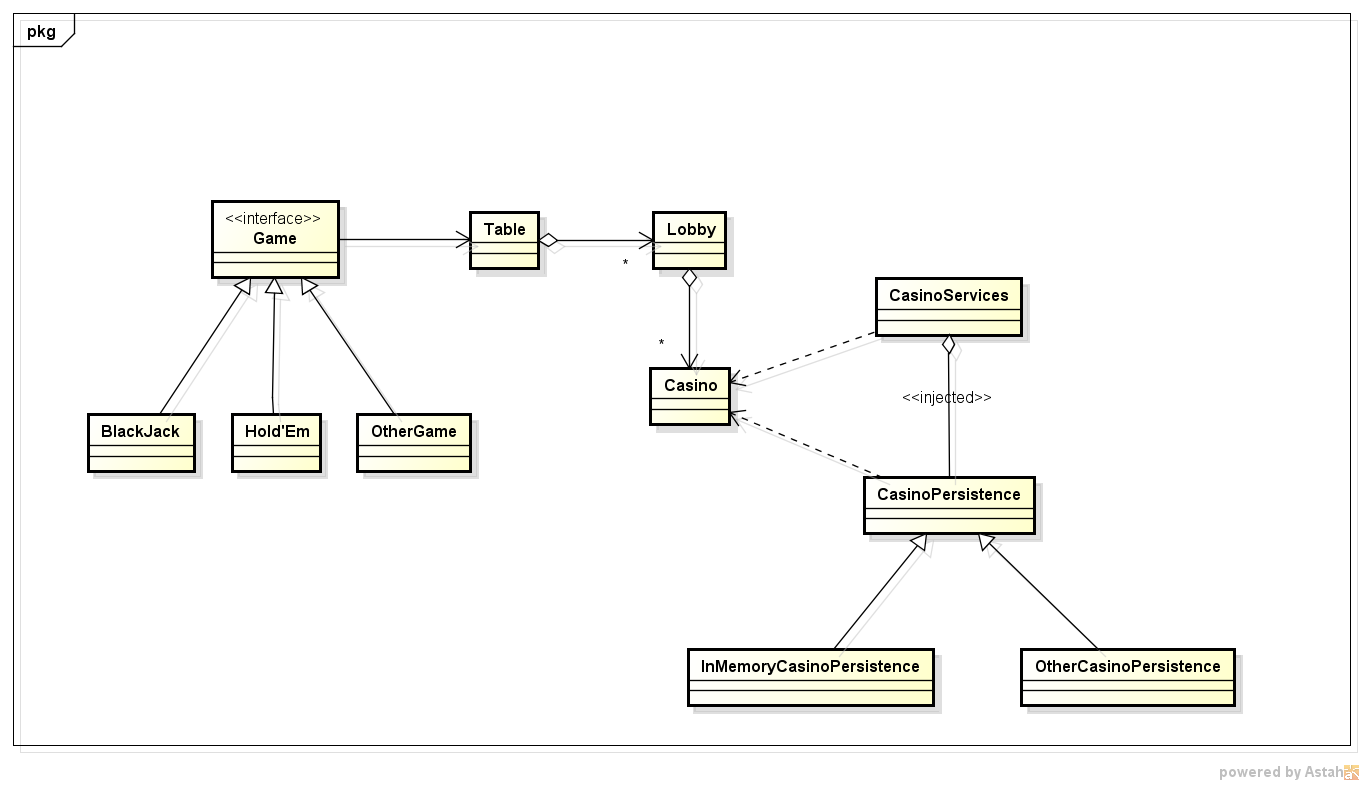
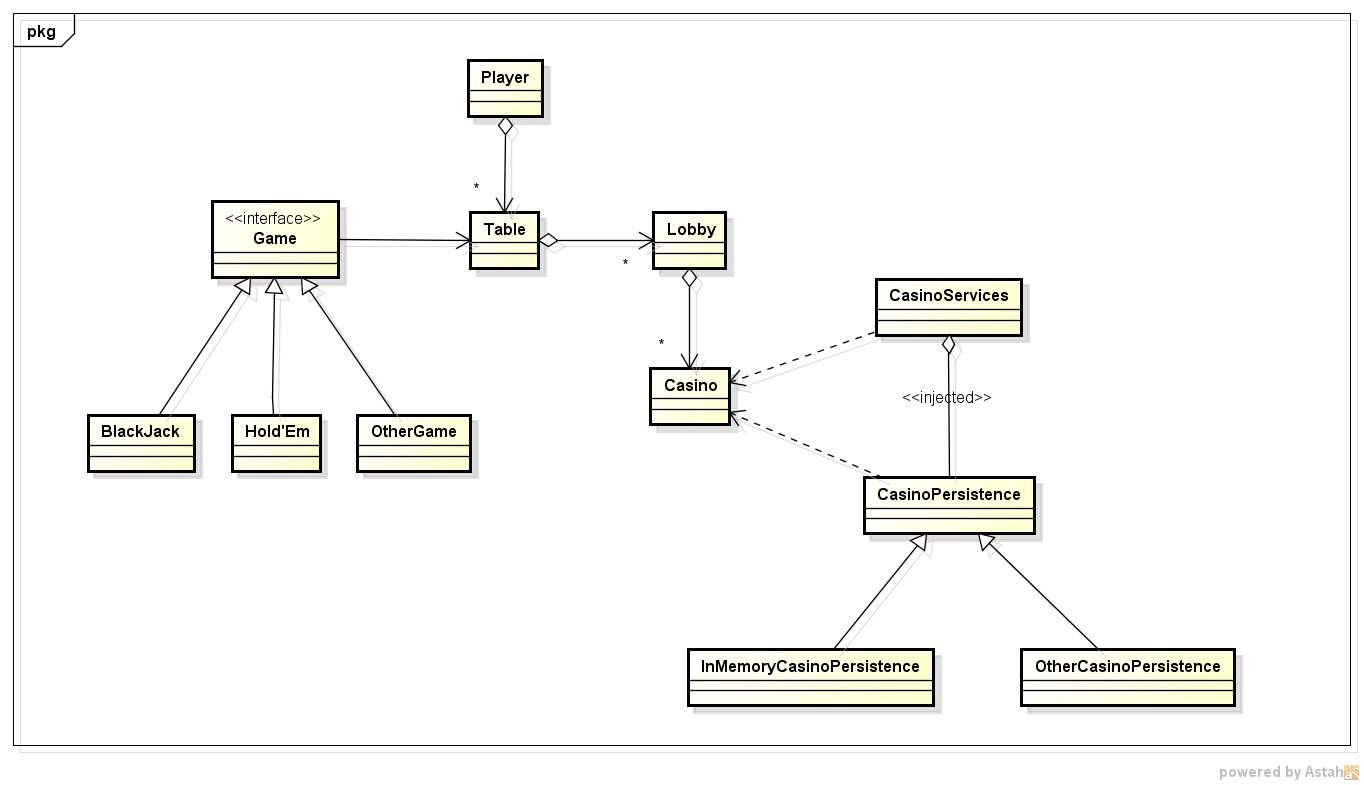
Added player empty class and updated model

diff --git a/eCasino/src/main/java/edu/eci/arsw/ecasino/model/Table.java b/eCasino/src/main/java/edu/eci/arsw/ecasino/model/Table.java
@@ -1,11 +1,14 @@
 package edu.eci.arsw.ecasino.model;
 
+import java.util.ArrayList;
+
 public class Table {
 	
 	private Game game;
+	private ArrayList<Player> players;
 	
 	public Table() {
-		
+		players = new ArrayList<>();
 	}
 	
 	public Table(Game game) {
@@ -18,6 +21,14 @@ public class Table {
 
 	public void setGame(Game game) {
 		this.game = game;
+	}
+
+	public ArrayList<Player> getPlayers() {
+		return players;
+	}
+
+	public void setPlayers(ArrayList<Player> players) {
+		this.players = players;
 	}
 
 }

diff --git a/eCasino/src/main/java/edu/eci/arsw/ecasino/model/Player.java b/eCasino/src/main/java/edu/eci/arsw/ecasino/model/Player.java
@@ -1,0 +1,19 @@
+package edu.eci.arsw.ecasino.model;
+
+public class Player {
+	
+	private String username;
+	
+	public Player() {
+		
+	}
+
+	public String getUsername() {
+		return username;
+	}
+
+	public void setUsername(String username) {
+		this.username = username;
+	}
+
+}
